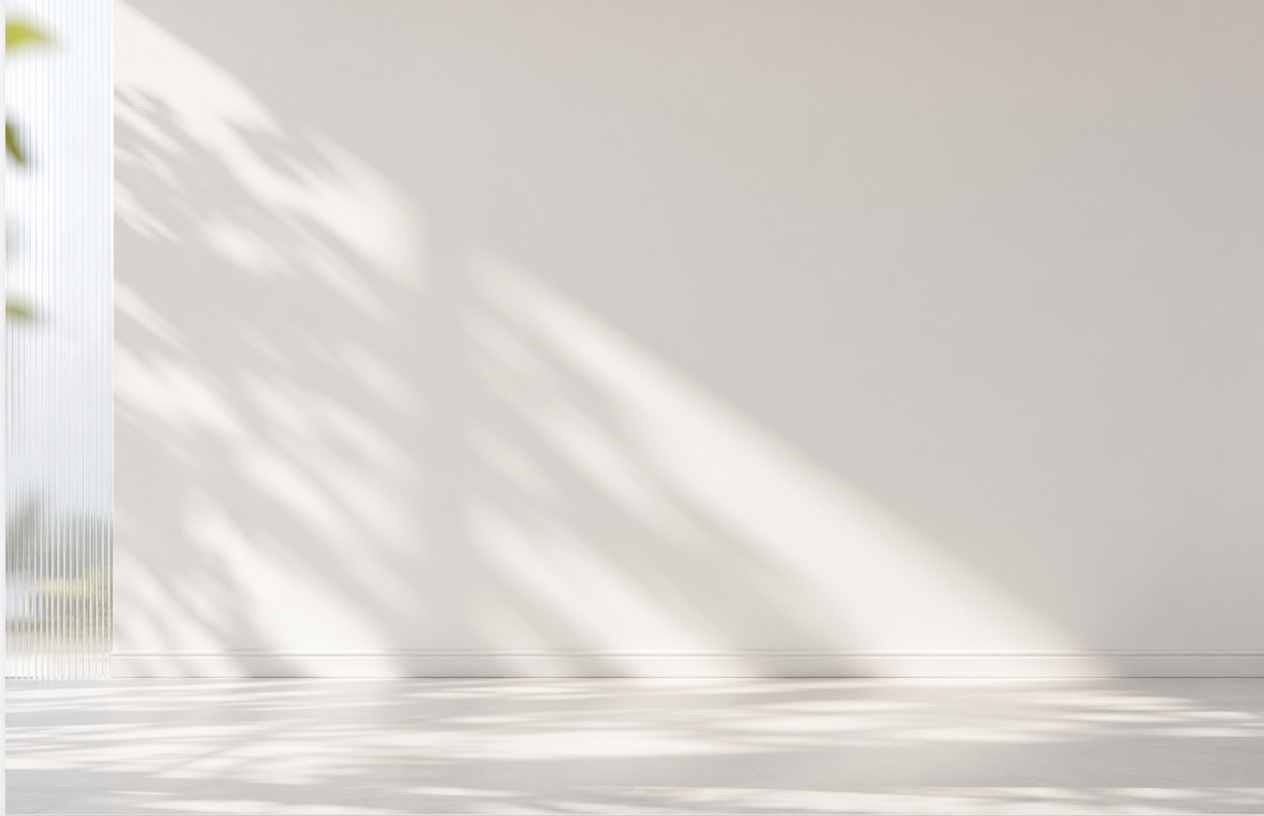
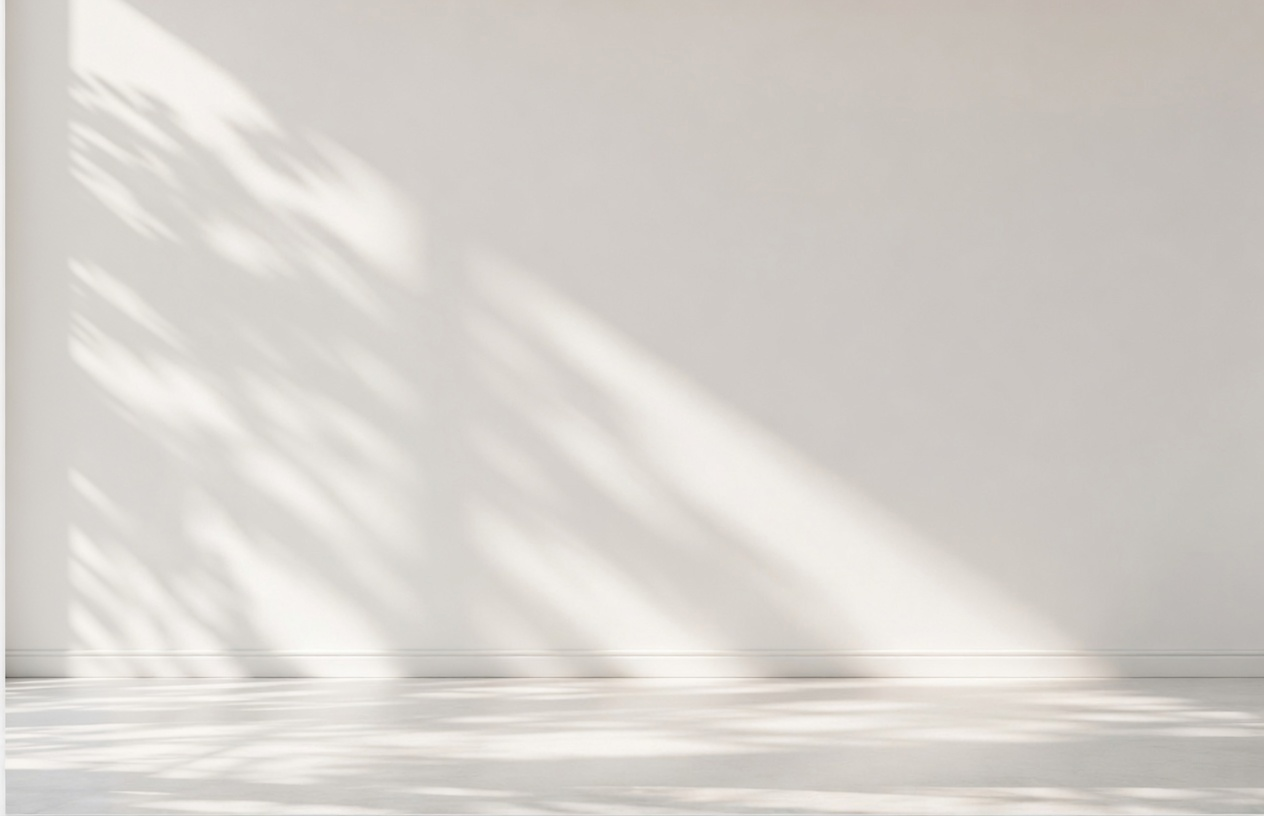
Remove the left glass from the archive wall so the page TOC stays readable.

Changed region(s): [[0.0, 0.0, 0.0926, 0.8578]]

diff --git a/work/ankki-product-sheets.html b/work/ankki-product-sheets.html
@@ -13,7 +13,7 @@
 
   <link rel="stylesheet" href="../css/style.css?v=81">
   <link rel="stylesheet" href="../css/case.css?v=103">
-  <link rel="stylesheet" href="../css/hall.css?v=1">
+  <link rel="stylesheet" href="../css/hall.css?v=2">
 </head>
 <body class="case-page is-product-sheets">
 <div class="site">
@@ -164,7 +164,7 @@
 
         <section class="cs-hall" aria-label="数字设计档案馆">
           <div class="hall">
-            <img class="hall-space" src="../assets/work/ankki/hall/space.jpg" alt="" width="1264" height="816">
+            <img class="hall-space" src="../assets/work/ankki/hall/space.jpg?v=2" alt="" width="1264" height="816">
             <header class="hall-title">
               <h1>数字设计档案馆</h1>
               <p>13 件企业级产品视觉设计档案</p>

diff --git a/css/hall.css b/css/hall.css
@@ -22,7 +22,7 @@
   width: 100%;
   height: 100%;
   object-fit: cover;
-  object-position: 42% 50%;
+  object-position: 50% 50%;
   pointer-events: none;
   user-select: none;
 }
